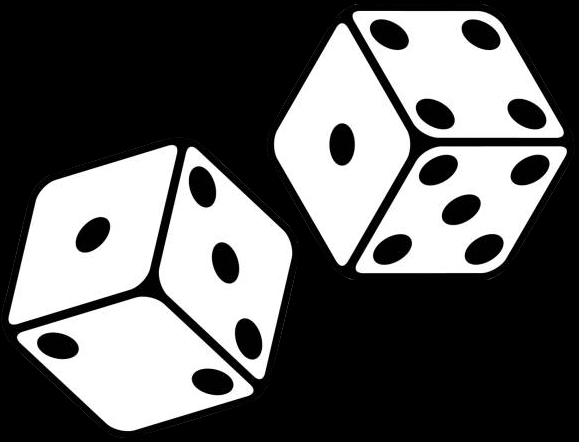
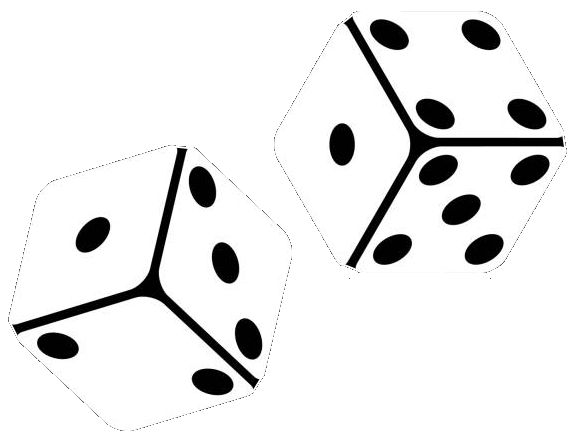
Header?
Dice not black

diff --git a/northeastern-ceo/src/components/CEO.js b/northeastern-ceo/src/components/CEO.js
@@ -60,20 +60,21 @@ class CEO extends React.Component {
 
                         <li><form onSubmit={this.handleBribeChild}>
                             <button>
-                                Bribe a child (+ 1 student)
+                                Bribe a child (+ 1 student).
+                                <br></br>
+                                Cost: {this.state.displayStudentCost}
                             </button>
                         </form></li>
-
-                        <p>Cost: {this.state.displayStudentCost}</p>
 
                         <li><form onSubmit={this.handleMarketing}>
                             <button>
                                 <img src={video} className="App-logo" alt="" />
-                                <p>Make a marketing video (+ 0-4 students)</p>
+                                <p>Make a marketing video (+ 0-4 students)
+                                    <br></br>
+                                    Cost: {this.state.displayMarketingCost}
+                                </p>
                             </button>
                         </form></li>
-
-                        <p> Cost: {this.state.displayMarketingCost}</p>
 
                         <li><form onSubmit={this.handleSurpriseMechanics}>
                             <button>

diff --git a/northeastern-ceo/src/App.css b/northeastern-ceo/src/App.css
@@ -36,11 +36,27 @@
   font-family: 'FF Real Head', Courier, monospace;
 }
 
-.name {
+.universityName {
+  text-align: left;
+  color: #E5621C;
+  font-size: 20px;
+  /* padding-left: pt; */
+}
+
+.presidentName {
+  text-align: left;
+  color: #E5621C;
+  font-size: 20px;
+  padding-left: 100pt;
+}
+
+.name1 {
+  display: flex;
+  flex-direction: column;
   text-align: center;
   color: #E5621C;
   font-size: 20px;
-  padding-left: 50pt;
+  padding-left: 200pt;
 }
 
 .presNames {
@@ -79,7 +95,6 @@
   border-radius: 25px;
   border-style: solid;
   border-color: #69d0ec;
-  /* background: #73AD21; */
 }
 
 .blast {

diff --git a/northeastern-ceo/src/components/President.js b/northeastern-ceo/src/components/President.js
@@ -2,9 +2,12 @@
 
 function President({ name }) {
     return (
-        <div>
-            <div className="name">
-                <h1>Northeastern University {name}</h1>
+        <div className='name1'>
+            <div className='universityName'>
+                <h1>Northeastern University</h1>
+            </div>
+            <div className='presidentName'>
+                <h1>President: {name}</h1>
             </div>
         </div>
     )
